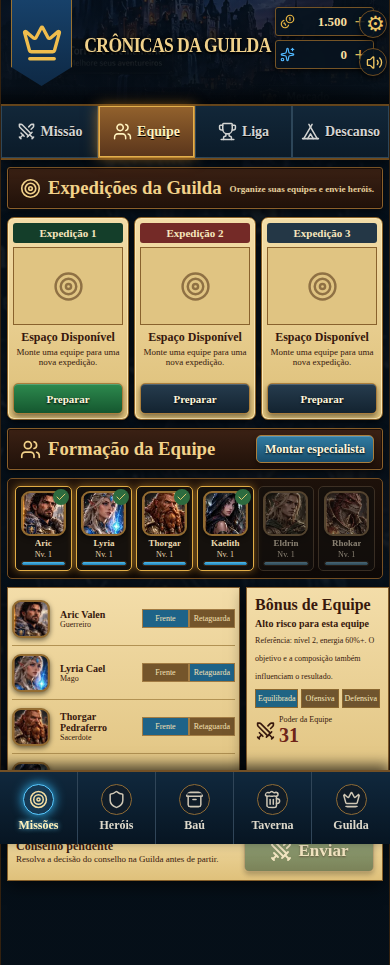
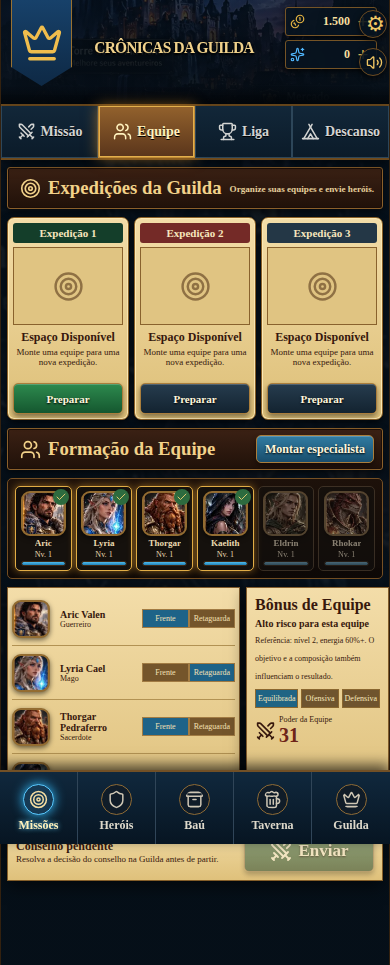
Hotfix Android real: header, batalha fullscreen e PT-BR
Corrige problemas visíveis nas capturas reais de Android, mantém testes e revisão visual aprovados.

Changed region(s): [[0.2154, 0.0, 0.7692, 0.0622], [0.8308, 0.0, 0.8923, 0.0622]]

diff --git a/app/game-client.tsx b/app/game-client.tsx
@@ -35,6 +35,15 @@ const specialtyNames: Record<string,string> = {
   undead:"Mago / Paladino", boss:"Equipe completa"
 };
 const specialtyName = (value: string) => specialtyNames[value] || value;
+const rarityNames: Record<string,string> = {
+  common:"Comum", uncommon:"Incomum", rare:"Raro", epic:"Épico", legendary:"Lendário"
+};
+const statusNames: Record<string,string> = {
+  bleed:"Sangramento", poison:"Veneno", stun:"Atordoado", shield:"Escudo",
+  regen:"Regeneração", taunt:"Provocado", inspired:"Inspirado", vulnerable:"Vulnerável"
+};
+const rarityLabel = (value: string) => rarityNames[value] || value;
+const statusLabel = (value: string) => statusNames[value] || value;
 const CORE_RACE_NAMES: Record<string,string> = {
   aric:"Humano", lyra:"Elfa", elen:"Anão", kael:"Meio-Elfa", sora:"Elfo", doran:"Draconato"
 };
@@ -518,7 +527,7 @@ function ChestPage({ state, act, busy }: { state: Campaign; act: (a: Action) => 
         <ItemArt itemKey={item.key} /><span>{ITEMS[item.key].name}</span>{item.equippedTo && <b>✓</b>}
       </button>)}</div>
       {selected && def ? <article className="item-detail parchment">
-        <span className="rarity-label">{def.rarity.toUpperCase()}</span><h2>{def.name}</h2>
+        <span className="rarity-label">{rarityLabel(def.rarity)}</span><h2>{def.name}</h2>
         <div className="selected-item-art"><ItemArt itemKey={selected.key} /></div>
         <p>{def.description}</p>
         <div className="item-stats">{([["Ataque",def.attack],["Defesa",def.defense],["Magia",def.magic],["Vida",def.hp],["Velocidade",def.speed]] as Array<[string,number|undefined]>).filter(([,v]) => v).map(([k,v]) => <span key={k}><b>{k}</b><em>+{v}</em></span>)}</div>
@@ -634,7 +643,7 @@ function BattleOverlay({ state, expedition, act, close, busy }: {
       <div className="battle-stage">
         <div className="fighters allies">{heroes.map(f => <article key={f.id}><HeroPortrait hero={{id:f.id,name:f.name,class:f.class || "warrior"}}/><div><strong>{f.name}</strong><small>{f.class ? CLASSES[f.class].name : "Herói"}</small><ProgressBar value={f.maxHp ? f.hp/f.maxHp*100 : 0} tone="red"/><span>{f.hp}/{f.maxHp}</span></div></article>)}</div>
         <div className="battle-center-mark"><Swords /></div>
-        <div className="fighters enemies">{enemies.map(f => <article key={f.id}><img src={"/enemies/" + enemyArtKey(f.name) + ".webp"} alt="" /><div><strong>{f.name}</strong><small>{f.statuses?.map(s=>s.kind).join(" · ") || "Inimigo"}</small><ProgressBar value={f.maxHp ? f.hp/f.maxHp*100 : 0} tone="red"/><span>{f.hp}/{f.maxHp}</span></div></article>)}</div>
+        <div className="fighters enemies">{enemies.map(f => <article key={f.id}><img src={"/enemies/" + enemyArtKey(f.name) + ".webp"} alt="" /><div><strong>{f.name}</strong><small>{f.statuses?.map(s=>statusLabel(s.kind)).join(" · ") || "Inimigo"}</small><ProgressBar value={f.maxHp ? f.hp/f.maxHp*100 : 0} tone="red"/><span>{f.hp}/{f.maxHp}</span></div></article>)}</div>
       </div>
       <div className="battle-log parchment">{battle.log.slice(-5).map((l,i) => <p key={i} data-kind={l.kind}>{l.text}</p>)}{!battle.log.length && <p>Os combatentes tomam posição.</p>}</div>
       <div className="consumable-title"><Archive /> Consumíveis</div>
@@ -670,6 +679,12 @@ export default function Game() {
   const saveRef = useRef<Save | null>(null);
   const fileRef = useRef<HTMLInputElement>(null);
   const { musicEnabled, toggleMusic } = useAmbientRpgMusic();
+
+  useEffect(() => {
+    if (!flash) return;
+    const timer = window.setTimeout(() => setFlash(""), 2200);
+    return () => window.clearTimeout(timer);
+  }, [flash]);
 
   const hydrate = useCallback((body: Save) => {
     setSave(body); saveRef.current = body;

diff --git a/app/ui.css b/app/ui.css
@@ -1003,17 +1003,22 @@ img{display:block;max-width:100%}
 .battle-overlay{
   position:fixed;
   left:50%;
-  top:calc(var(--header-h) + var(--topnav-h));
-  bottom:var(--bottom-h);
+  top:0;
+  bottom:0;
   width:min(100vw,var(--max-app));
   transform:translateX(-50%);
-  z-index:70;
+  z-index:160;
   overflow:auto;
   overscroll-behavior:contain;
   background:#06101a;
   border-inline:1px solid #503719;
 }
-.battle-sheet{min-height:100%;color:#f2dfb3;background:#06101a}
+.battle-sheet{
+  min-height:100dvh;
+  padding-bottom:max(8px,env(safe-area-inset-bottom));
+  color:#f2dfb3;
+  background:#06101a
+}
 .battle-top{
   min-height:52px;
   display:flex;
@@ -1145,8 +1150,21 @@ img{display:block;max-width:100%}
 }
 .battle-consumables .item-art{grid-row:1/3;width:38px;height:38px}
 .battle-consumables b{position:absolute;right:3px;top:2px;padding:1px 4px;border-radius:4px;background:#0a0b0c;color:#fff;font-size:8px}
-.battle-consumables strong{align-self:end;font-size:8px}
-.battle-consumables small{align-self:start;font-size:7px;line-height:1.08;color:#c8c2b4}
+.battle-consumables strong{
+  align-self:end;
+  font-size:8px;
+  line-height:1.05;
+  white-space:normal;
+  overflow-wrap:anywhere;
+}
+.battle-consumables small{
+  align-self:start;
+  font-size:7px;
+  line-height:1.08;
+  color:#c8c2b4;
+  white-space:normal;
+  overflow-wrap:anywhere;
+}
 .battle-actions{display:grid;grid-template-columns:1fr 1fr;gap:5px;padding:7px;background:#07121c}
 .battle-actions .action-button{min-height:36px}
 .battle-actions .huge{grid-column:1/-1}
@@ -1234,10 +1252,16 @@ img{display:block;max-width:100%}
 @media (max-width:430px){
   :root{--header-h:106px;--topnav-h:54px;--bottom-h:74px}
   .header-banner{left:10px;width:61px;height:86px}
-  .header-title{left:61px;right:96px;top:35px;font-size:20px;transform:scaleX(.88)}
-  .header-resources{right:15px;width:99px}
+  .header-title{
+    left:68px;right:110px;top:39px;
+    font-size:clamp(15px,4.4vw,18px);
+    letter-spacing:-.05em;
+    transform:scaleX(.9);
+    transform-origin:center;
+  }
+  .header-resources{right:12px;width:92px}
   .header-resources button{height:29px}
-  .header-resources strong{font-size:13px}
+  .header-resources strong{font-size:12px}
   .top-nav button{font-size:14px;gap:5px}
   .top-nav button svg{width:19px;height:19px}
   .game-content{padding:7px 6px calc(var(--bottom-h) + 10px)}
